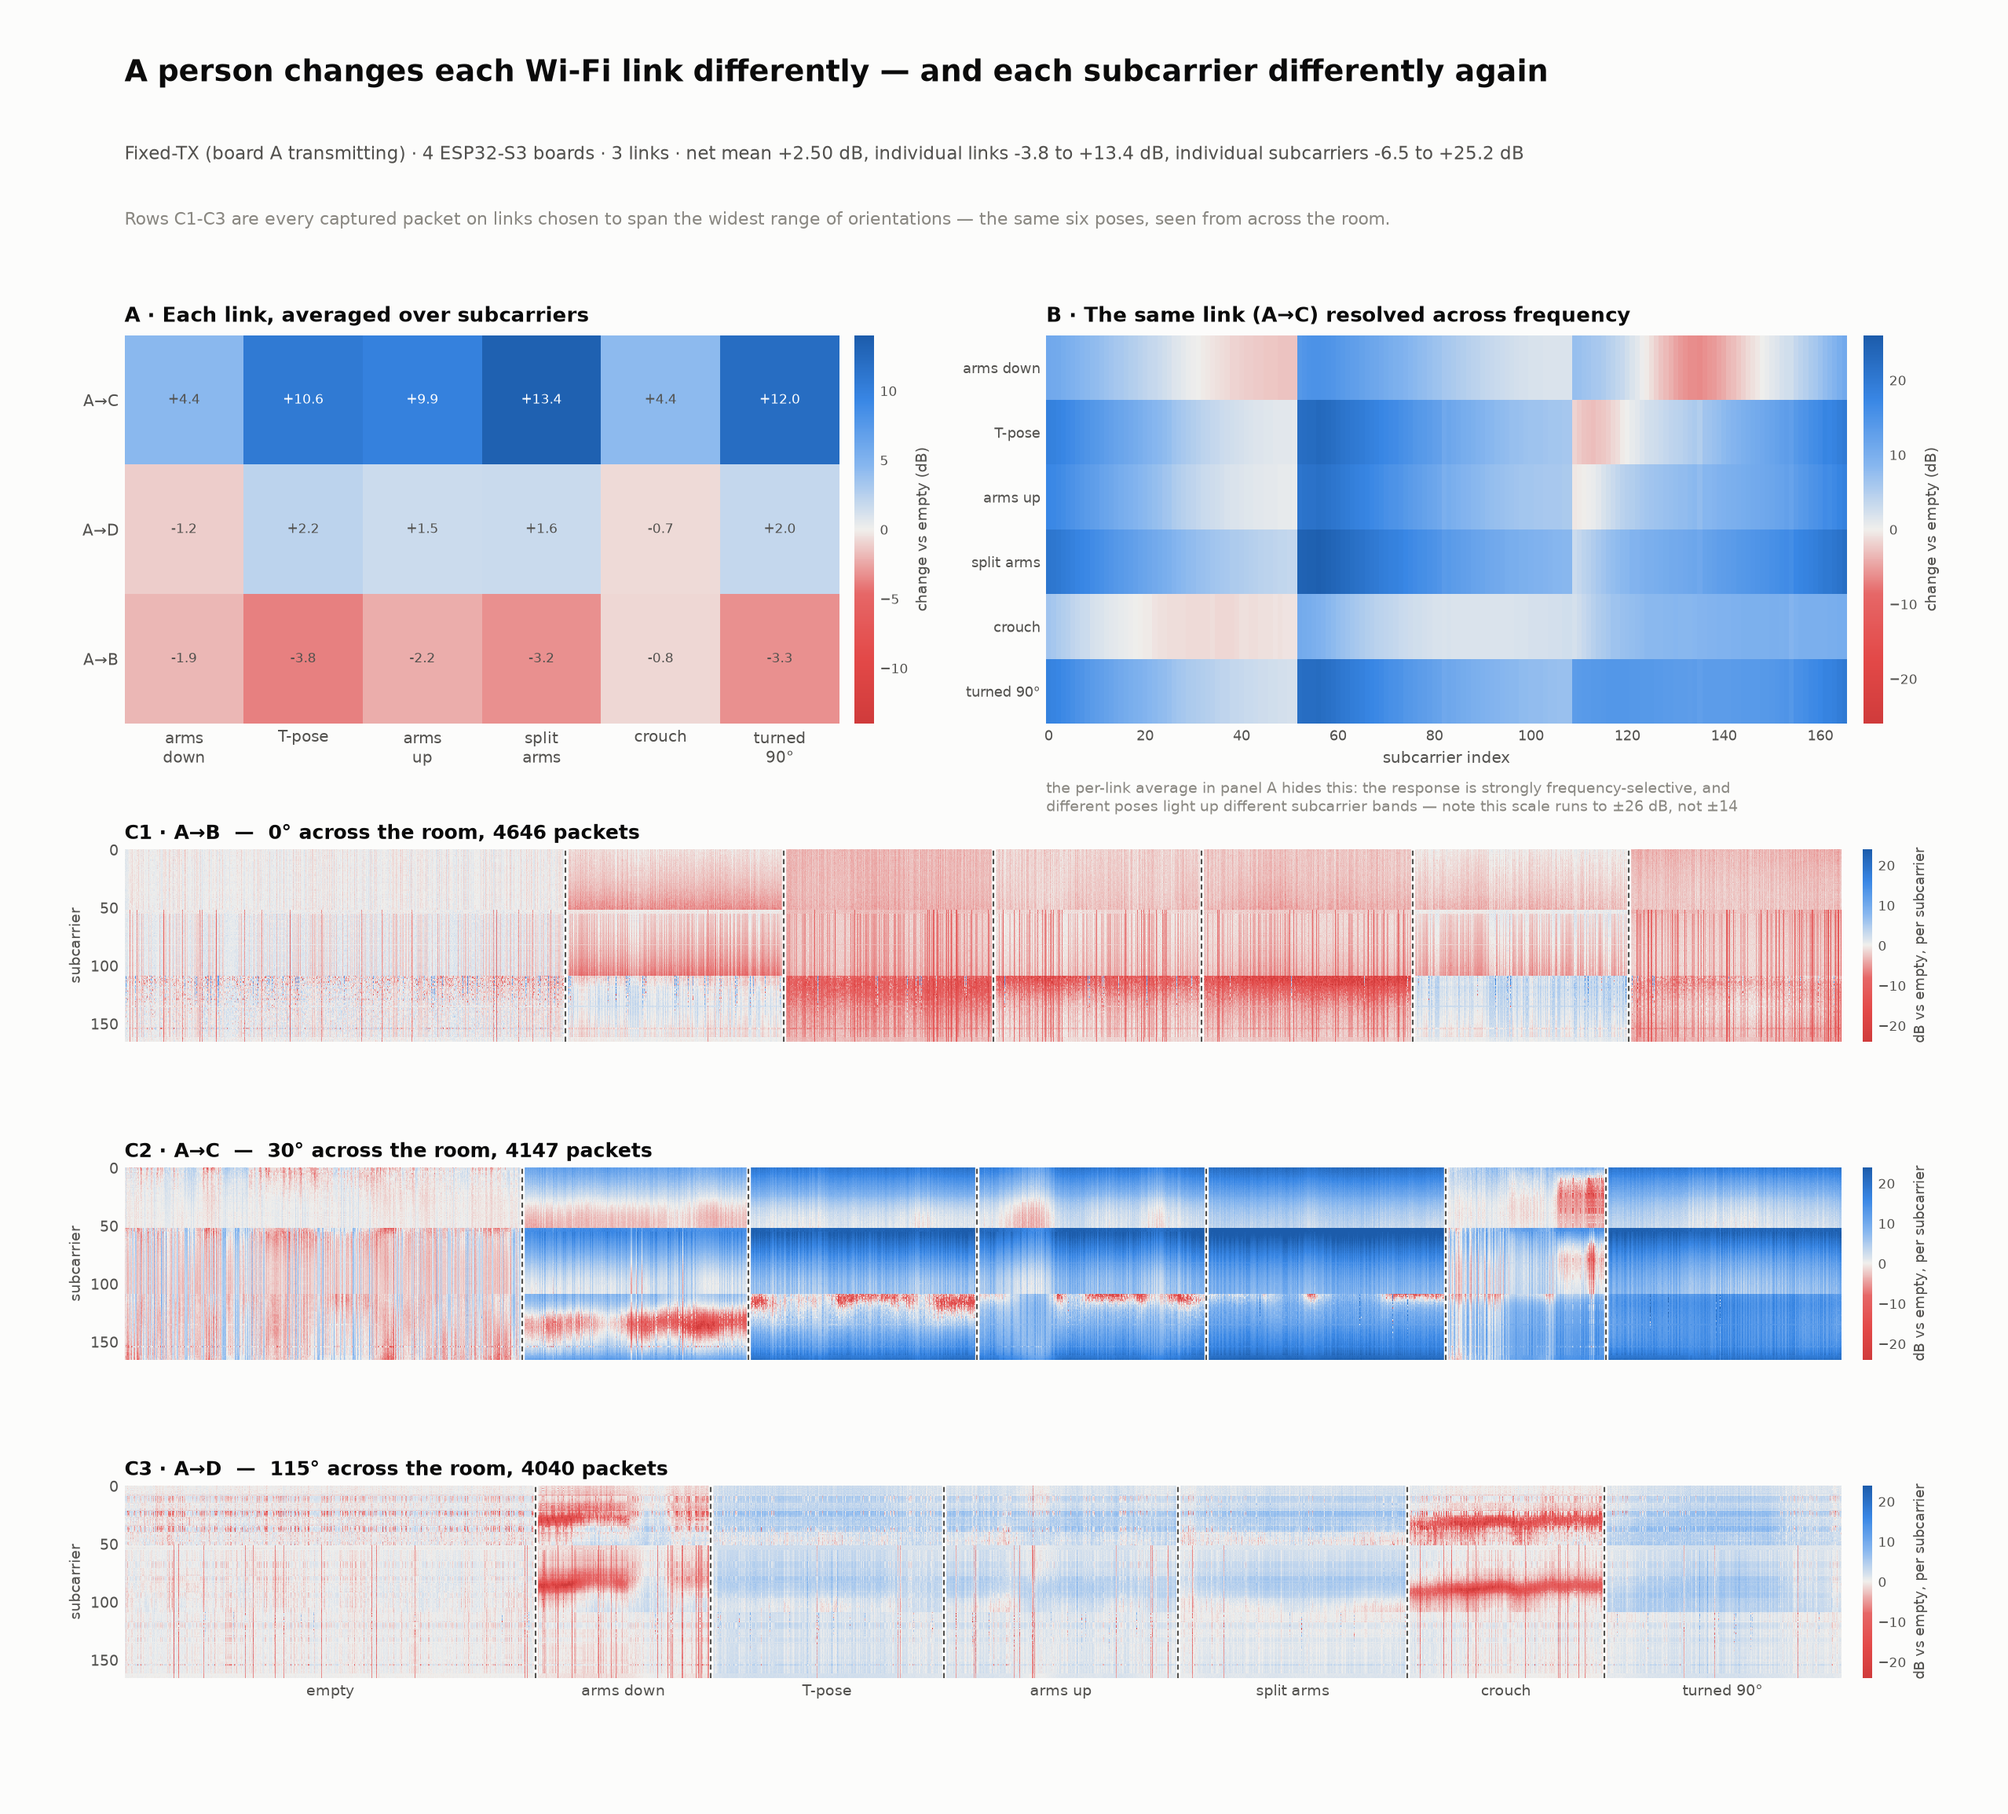
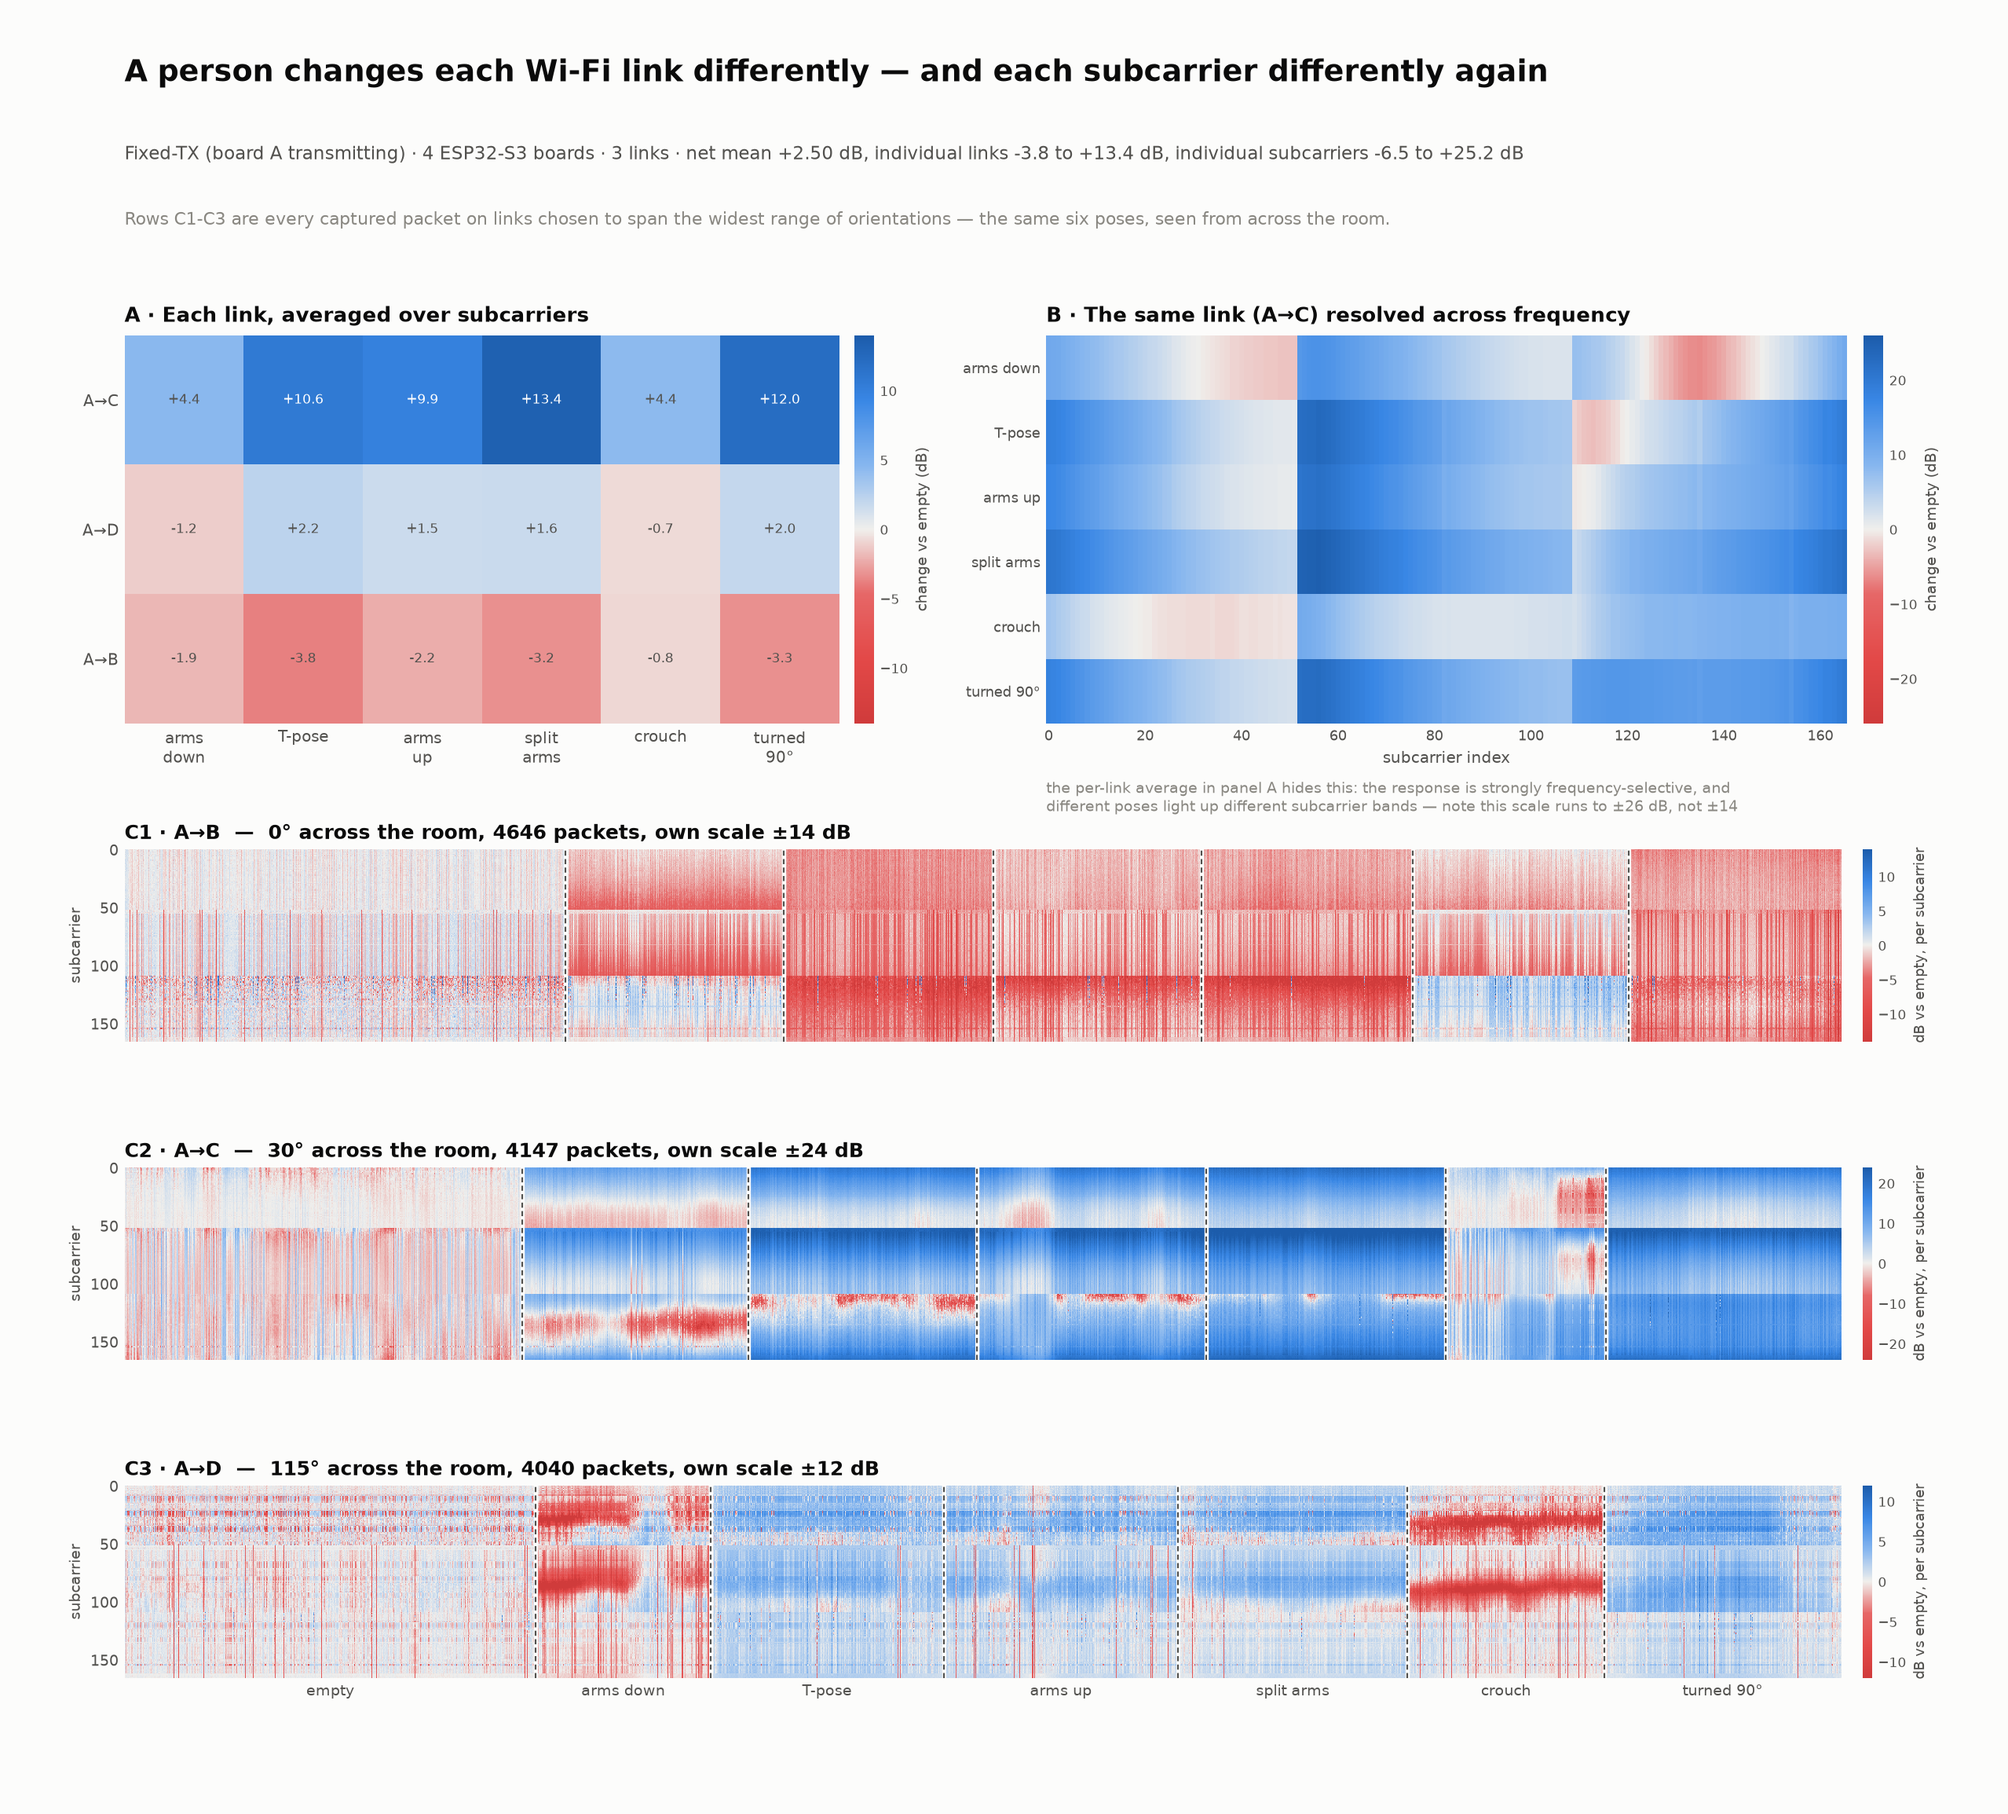
Detail figure: scale each waterfall independently
The three per-axis waterfalls shared one colour scale, which flattened the
quieter axes to near-blank -- the same mistake already fixed in the multiview
figure and then repeated here. Each row now takes its own symmetric scale,
stated in its title (RR: ±10, ±8, ±24 dB).

The 80° row is the one this recovers: it was washed out before and now shows
the arms-out poses gaining while crouch and turned-90° lose.

Changed region(s): [[0.0618, 0.8107, 0.9269, 0.9355], [0.0618, 0.4366, 0.9269, 0.5925], [0.3399, 0.6236, 0.4325, 0.6548]]

diff --git a/esp-csi/examples/get-started/tools/plot_pose_detail.py b/esp-csi/examples/get-started/tools/plot_pose_detail.py
@@ -205,10 +205,10 @@ def main():
              transform=ax2.transAxes, fontsize=9, color=MUTED, va='top')
 
     # ================= panel C: one row per axis =================
-    limR = max(float(np.ceil(max(np.nanpercentile(np.abs(W), 99)
-                                 for W, _, _, _, _ in waterfalls) / 2) * 2), 1.0)
     for r, (W, bounds, seg_lab, lname, ang) in enumerate(waterfalls):
         axr = fig.add_subplot(gs[1 + r, :], facecolor=SURFACE)
+        # own scale per axis: a shared one flattens the quieter links to blank
+        limR = max(float(np.ceil(np.nanpercentile(np.abs(W), 99) / 2) * 2), 1.0)
         im3 = axr.imshow(W, cmap=DIVERGING, aspect='auto', interpolation='nearest',
                          vmin=-limR, vmax=limR)
         for b in bounds[:-1]:
@@ -220,7 +220,7 @@ def main():
                        color=INK_2, fontsize=9.5)
         axr.set_ylabel('subcarrier', color=INK_2, fontsize=9)
         axr.set_title(f'C{r + 1} · {lname}  —  {ang:.0f}° across the room, '
-                      f'{W.shape[1]} packets',
+                      f'{W.shape[1]} packets, own scale ±{limR:.0f} dB',
                       color=INK, fontsize=11.5, pad=6, loc='left', fontweight='bold')
         axr.tick_params(colors=INK_2, length=0, labelsize=9)
         for sp in axr.spines.values():
